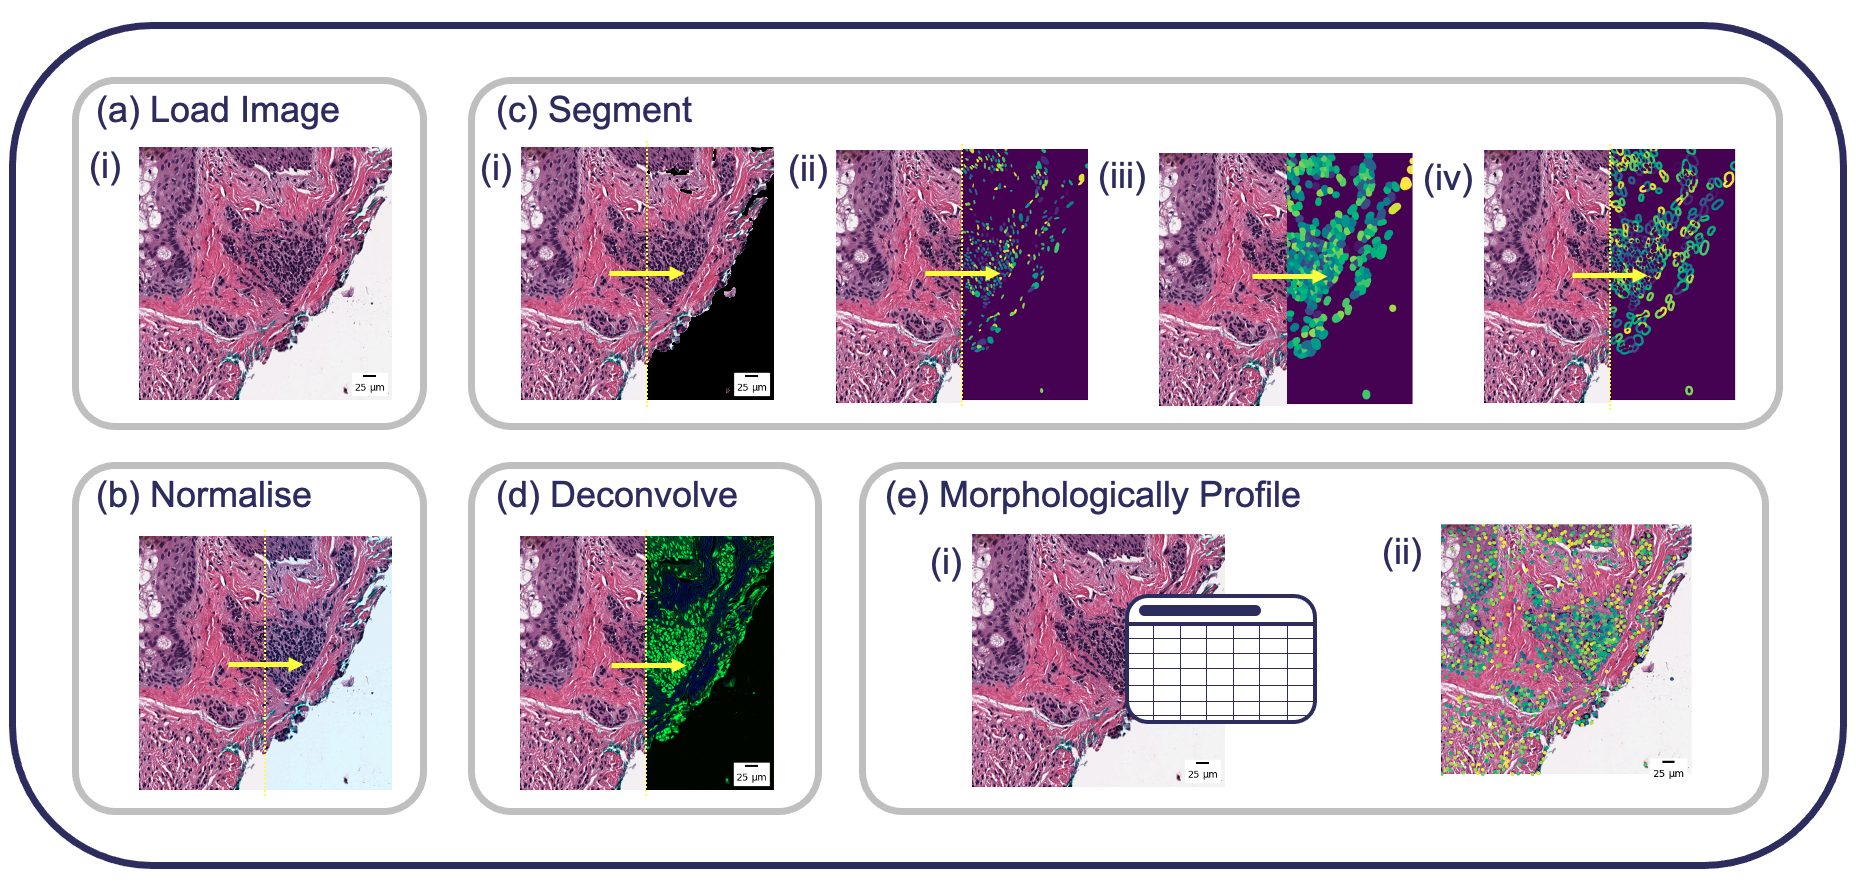
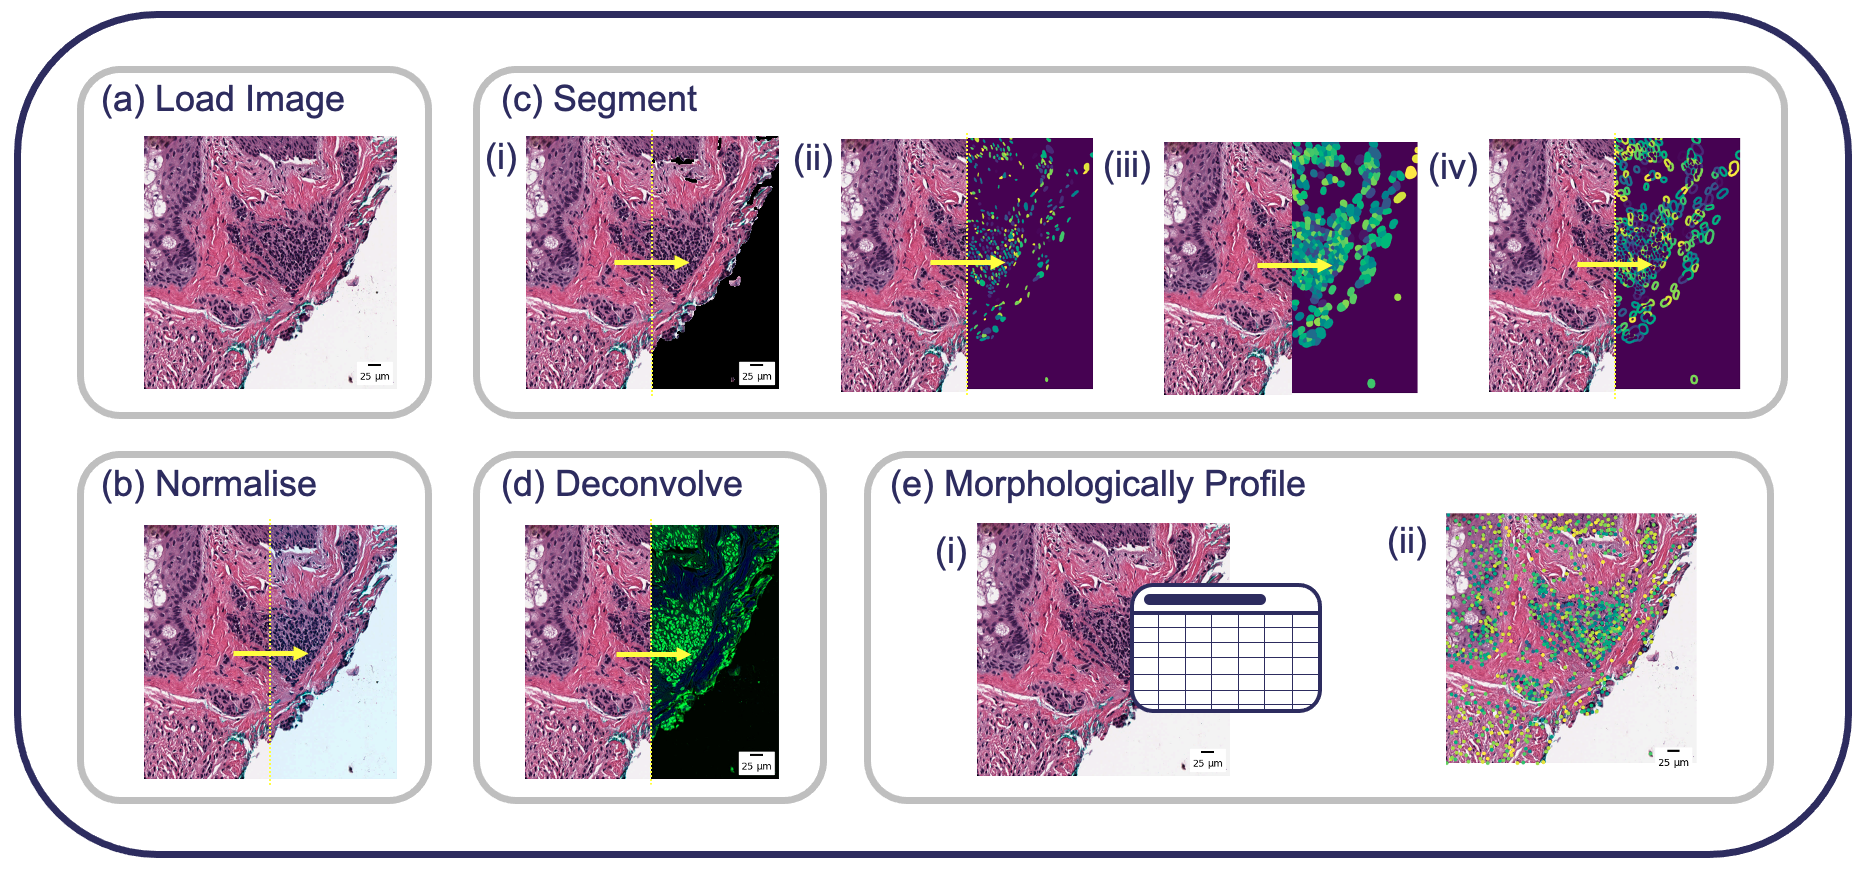
Update paper

diff --git a/paper/paper.md b/paper/paper.md
@@ -27,17 +27,17 @@ bibliography: paper.bib
 
 # Summary
 
-Digital pathology is an important field of study for fast and accurate diagnostic processes as well as for structural analysis of diseased tissue. High resolution pathology images are often shared amongst pathologists and annotated. In recent years, there has been substantial work to apply machine learning to these images for investigative and diagnostic tasks such as disease status prediction. Due to the large size of the images, technical expertise and computational resources are often required to open and analyse these images at scale. SCEMATK (Single Cell Extraction and Morphological Analysis Tool-Kit) provides an efficient way to open and convert digital pathology images into a phenotypic data set of morphological features - rather than image pixel-level input - at single cell resolution, for performing interpretable/explainable machine learning tasks at scale. Furthermore, SCEMATK focuses on the uniform processing of patches, allowing for spatial analysis of the morphology of cells across patches to capture detailed information about local and global tissue structure. All of these processes can be run interactively in a Jupyter notebook, allowing for easy manipulation of images too large to fit into memory, as well as in parallel on High Performance Computing platforms. 
+Digital pathology is an important field of study for fast and accurate diagnostic processes as well as for structural analysis of diseased tissue. High resolution pathology images are often shared amongst pathologists and annotated. In recent years, there has been substantial work to apply machine learning to these images for investigative and diagnostic tasks such as disease status prediction. Due to the large size of the images, technical expertise and computational resources are often required to open and analyse these images at scale. SCEMATK (Single Cell Extraction and Morphological Analysis Tool-Kit) provides an efficient way to open and convert digital pathology images into a phenotypic data set of morphological features, rather than image pixel-level input, at single cell resolution, for performing interpretable/explainable machine learning tasks at scale. Furthermore, SCEMATK focuses on the uniform processing of patches, allowing for spatial analysis of the morphology of cells across patches to capture detailed information about local and global tissue structure. All of these processes can be run interactively in a Jupyter notebook, allowing for easy manipulation of images too large to fit into memory, as well as in parallel on High Performance Computing platforms. 
 
 # Statement of Need
 
-Due to the large size of digital pathology whole slide images (WSIs), substantial computational resources are required to load, process, and analyse these data. Existing open source tools typically do not focus primarily on the morphological profiling of these images at single cell resolution. QuPath provides comprehensive tools for image viewing, cell detection and manual annotation [@bankhead2017qupath]. QuPath can perform some morphological profiling however more complex analytical workflows require a steep learning curve. Other software focuses on preparing WSIs for image level machine learning using efficient tiling and patch extraction strategies [@pocock2022tiatoolbox; @pourakpour2025histomicstk; @dolezal2024slideflow; @barcellona2024slidetiler]. Although some of these tools support morphological profiling, the independent processing of tiles, rather than treating the image as a whole, can introduce inconsistencies when calculating spatial morphlogical statistics.
+Due to the large size of digital pathology whole slide images (WSIs), substantial computational resources are required to load, process, and analyse these data. Existing open source tools typically do not focus primarily on the morphological profiling of these images at single cell resolution. QuPath provides comprehensive tools for image viewing, cell detection and manual annotation [@bankhead2017qupath]. QuPath can perform some morphological profiling however more complex analytical workflows require a steep learning curve. Other software focuses on preparing WSIs for image level machine learning using efficient tiling and patch extraction strategies [@pocock2022tiatoolbox; @pourakpour2025histomicstk; @dolezal2024slideflow; @barcellona2024slidetiler]. Although some of these tools support morphological profiling, the independent processing of tiles, rather than treating the image as a whole, can introduce inconsistencies when calculating spatial morphlogical statistics. Experiments using SCEMATK show that inclusion of spatial statitics can significantly increase performance in prediction tasks. This makes the consistent application of algorithms across an image vital for these calculations and why SCEMATK was made to focus on this in a performant manner.
 
 SCEMATK addresses this gap by providing a unified, easily extensible interface for whole slide image preprocessing, object segmentation, and morphological profiling, implemented using lazy-loading strategies and applicable to any staining modality including H&E, IHC and multiplex. This design enables efficient analysis on standard personal computers while remaining scalable to high-performance computing environments. In contrast to existing morphological profiling tools, SCEMATK applies image transformations consistently across the entire slide prior to feature extraction of dozens of interpretable cellular features, allowing computation of spatial statistics that characterise the local distribution of phenotypes within each cell’s neighbourhood.
 
 SCEMATK has been applied to a data set of WSI's of hepatocellular carcinoma in an in vivo model. It enabled researchers to extract morphological features and use these to train a machine learning classifier to identify cancerous cells, mutations and time from onset of cancer. The uniform processing of slides made possible the calculation of spatial statistics that greatly increased the accuracy of these predictions. The ability to use morphological profiles, rather than operating on image based machine learning, allowed for more robust interpretable machine learning techniques to be used to identify key changed in morphology driving the prediction
 
-![Example outputs of `scematk`. (a) The image patch can be loaded and viewed with scale bar. Normalisation can be applied with reference to a target image to reduce inter image stain variability. (c) Various segmentation strategies can be applied to identify regions of the tissue corresponding to (i) tissue, (ii) nuclei, (iii) cytoplasms and (iv) cells. (d) The image can be deconvolved to quantify the presence of H&E and IHC stains. (e) Masks and images are passed to a morphological profiler to calculate dozens of interpretable morphological features. (f) Morphological features can be viewed overlayed on the original image.](scematk_overview.png)
+![Example outputs of `scematk`. (a) The image patch can be loaded and viewed with scale bar. (b) Normalisation can be applied with reference to a target image to reduce inter image stain variability. (c) Various segmentation strategies can be applied to identify regions of the tissue corresponding to (i) tissue, (ii) nuclei, (iii) cytoplasms and (iv) cells. (d) The image can be deconvolved to quantify the presence of H&E and IHC stains. (e) (i) Masks and images are passed to a morphological profiler to calculate dozens of interpretable morphological features and (ii)) these features can be viewed overlayed on the original image.](scematk_overview.png)
 
 SCEMATK provides these basic tools for analysing images: 
 
@@ -46,6 +46,7 @@ SCEMATK provides these basic tools for analysing images:
 - Stain Deconvolution: Convert the image from RGB to a new colour space showing the intensities of different stains applied to the sample, indicating different biological properties of the tissue.
 - Object Segmentation: Identify nuclei of cells within an image as well as an approximation of the cell and cytoplasm.
 - Morphological Profiling: Convert the masks and deconvolved image into a table of morphological properties of each cell.
+- Feature Plotting: Overlay morphological features on an image to view them over a tissue.
 
 SCEMATK provides an all in one easy to use interface for carrying out single cell morphological profiling on digital pathology images with limited computational resources.
 
